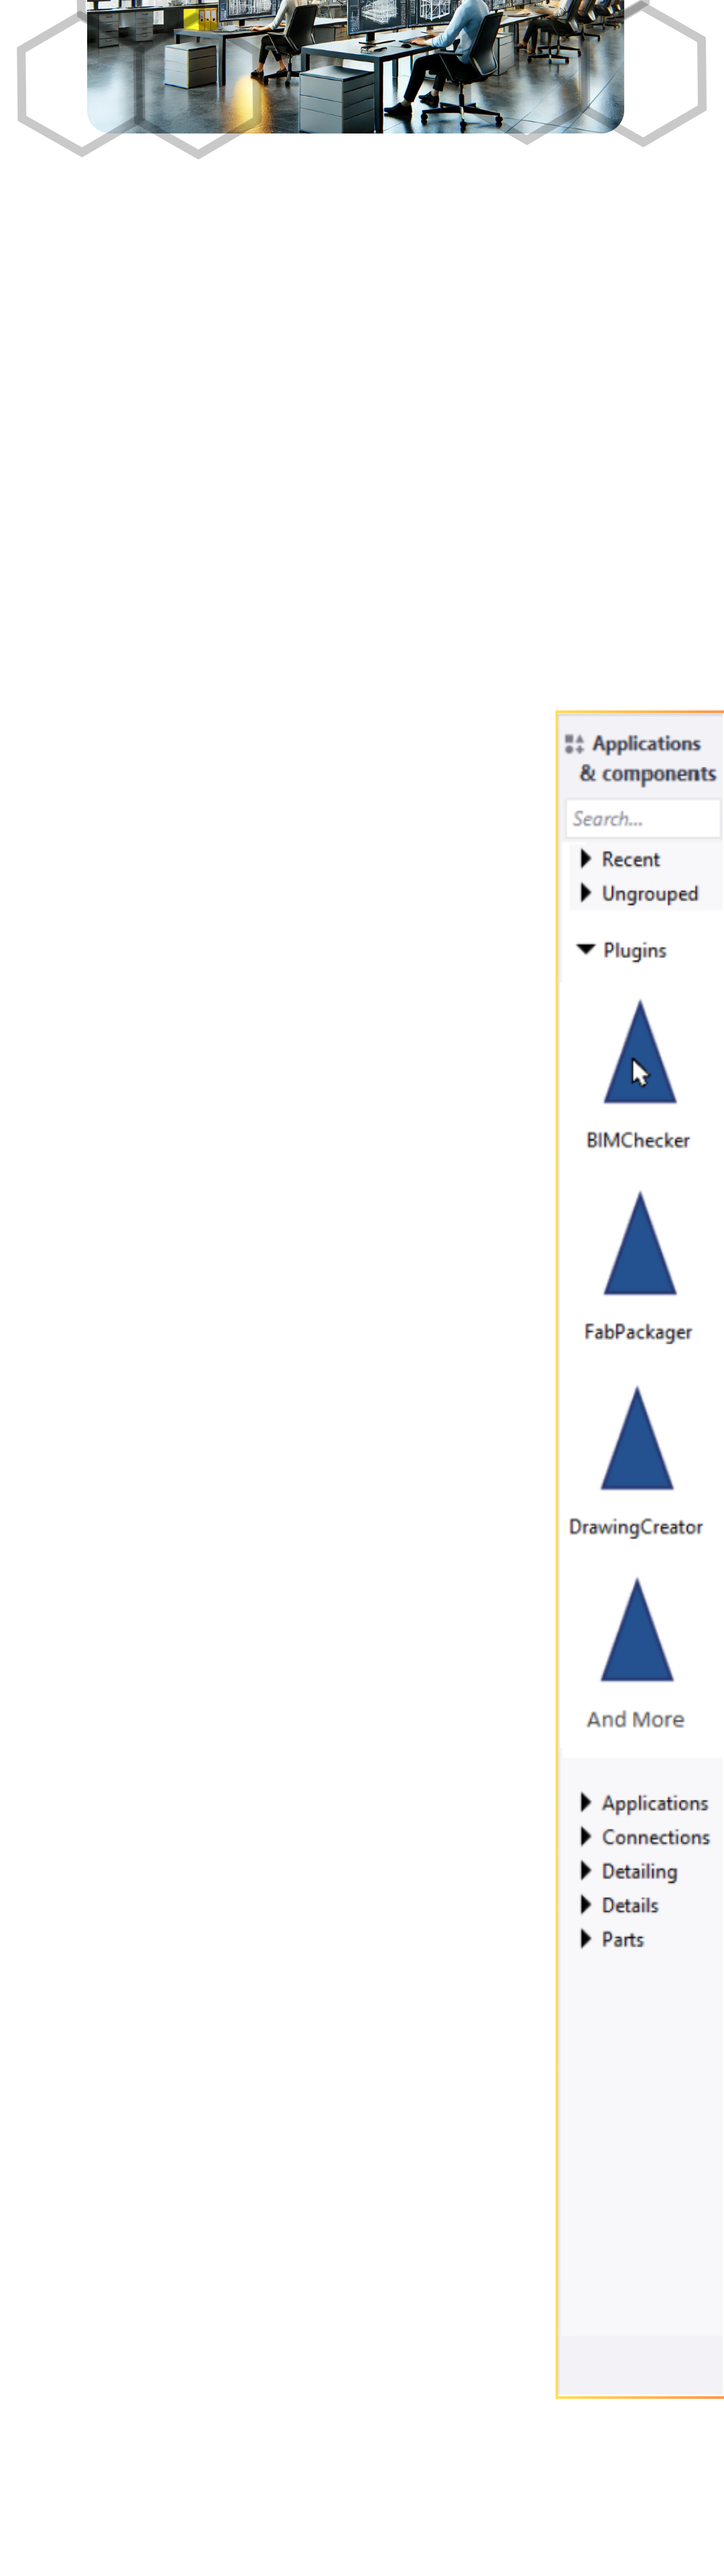
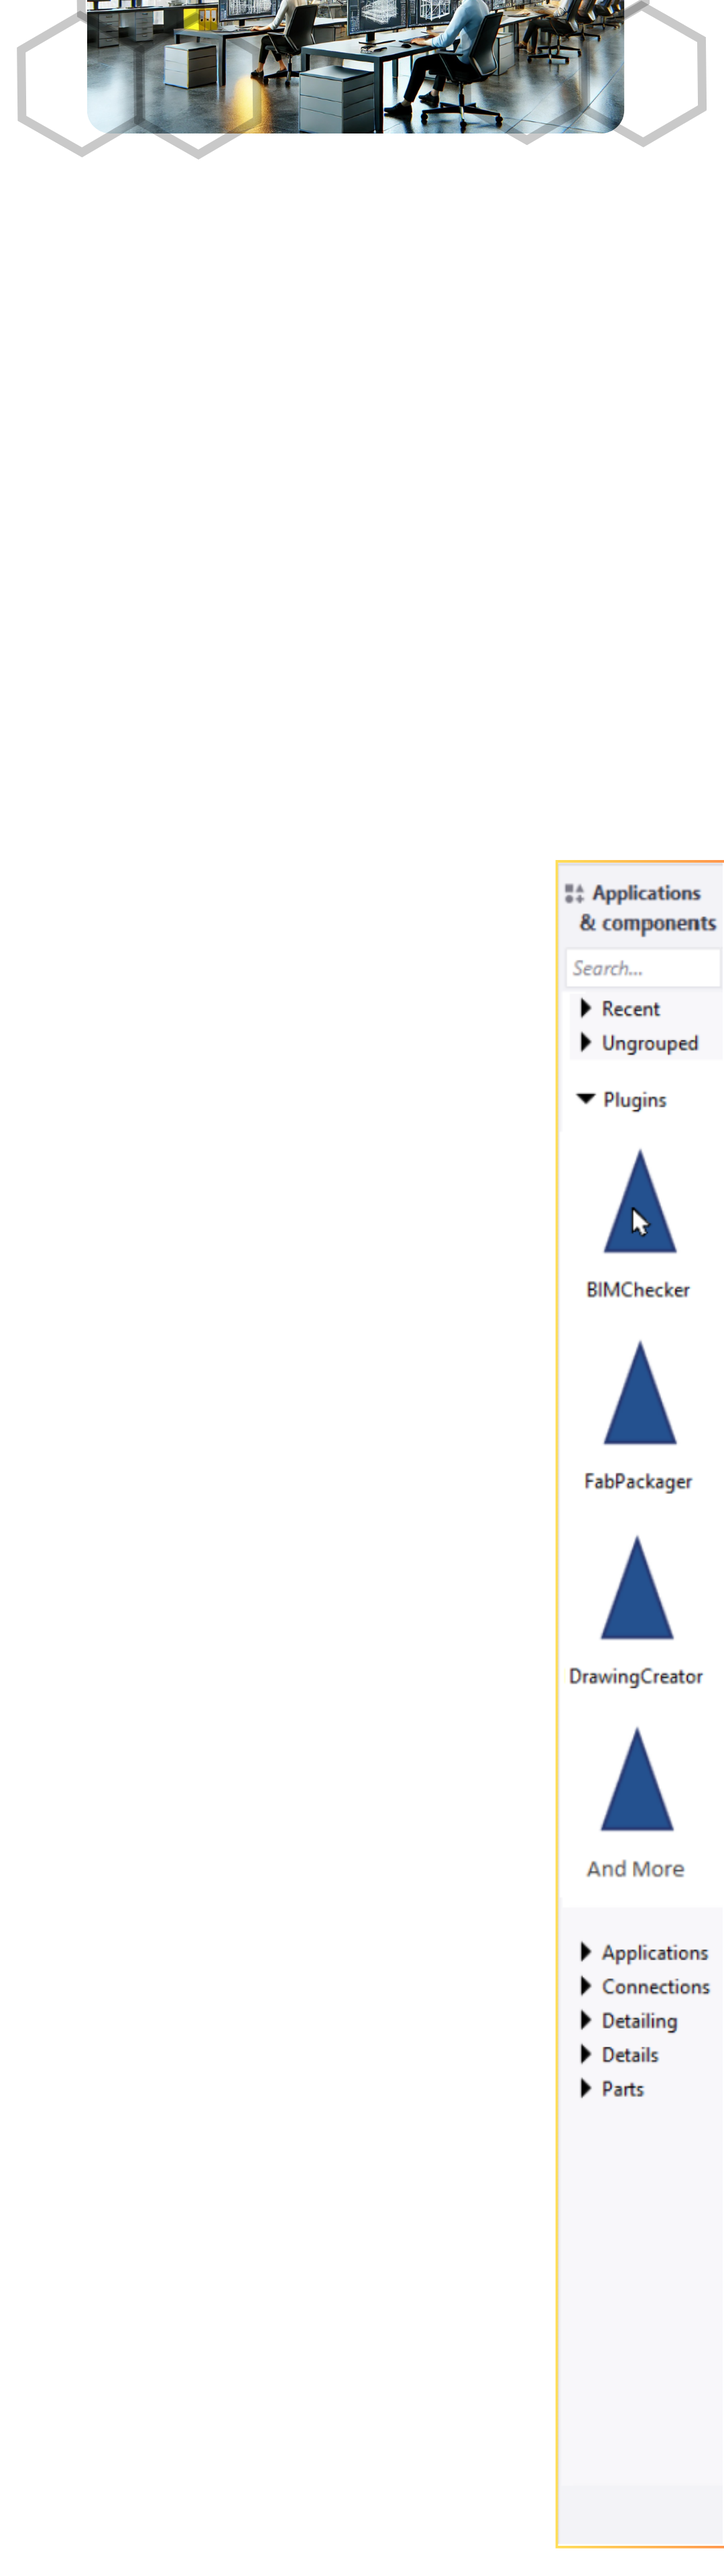
Add files via upload

Changed region(s): [[0.7639, 0.2812, 0.9778, 0.8125], [0.7639, 0.9375, 0.7944, 1.0]]

diff --git a/styles/responsiveTextOverlayMobile.css b/styles/responsiveTextOverlayMobile.css
@@ -54,6 +54,11 @@
         top: var(--about-us-top);
         width: 100% !important;
     }
+
+    #about-us .lang-en {
+        position: relative;
+        top: -6vw; /* Adjust this value as needed for your design */
+    }
     
     #services {
         top: var(--services-top);

diff --git a/index.html b/index.html
@@ -40,7 +40,7 @@
           document.documentElement.setAttribute('lang', saved);
           window.startLang = saved;
         }
-        window.defaultLang = 'en';
+        window.defaultLang = 'he';
       })();
     </script>
 </head>
